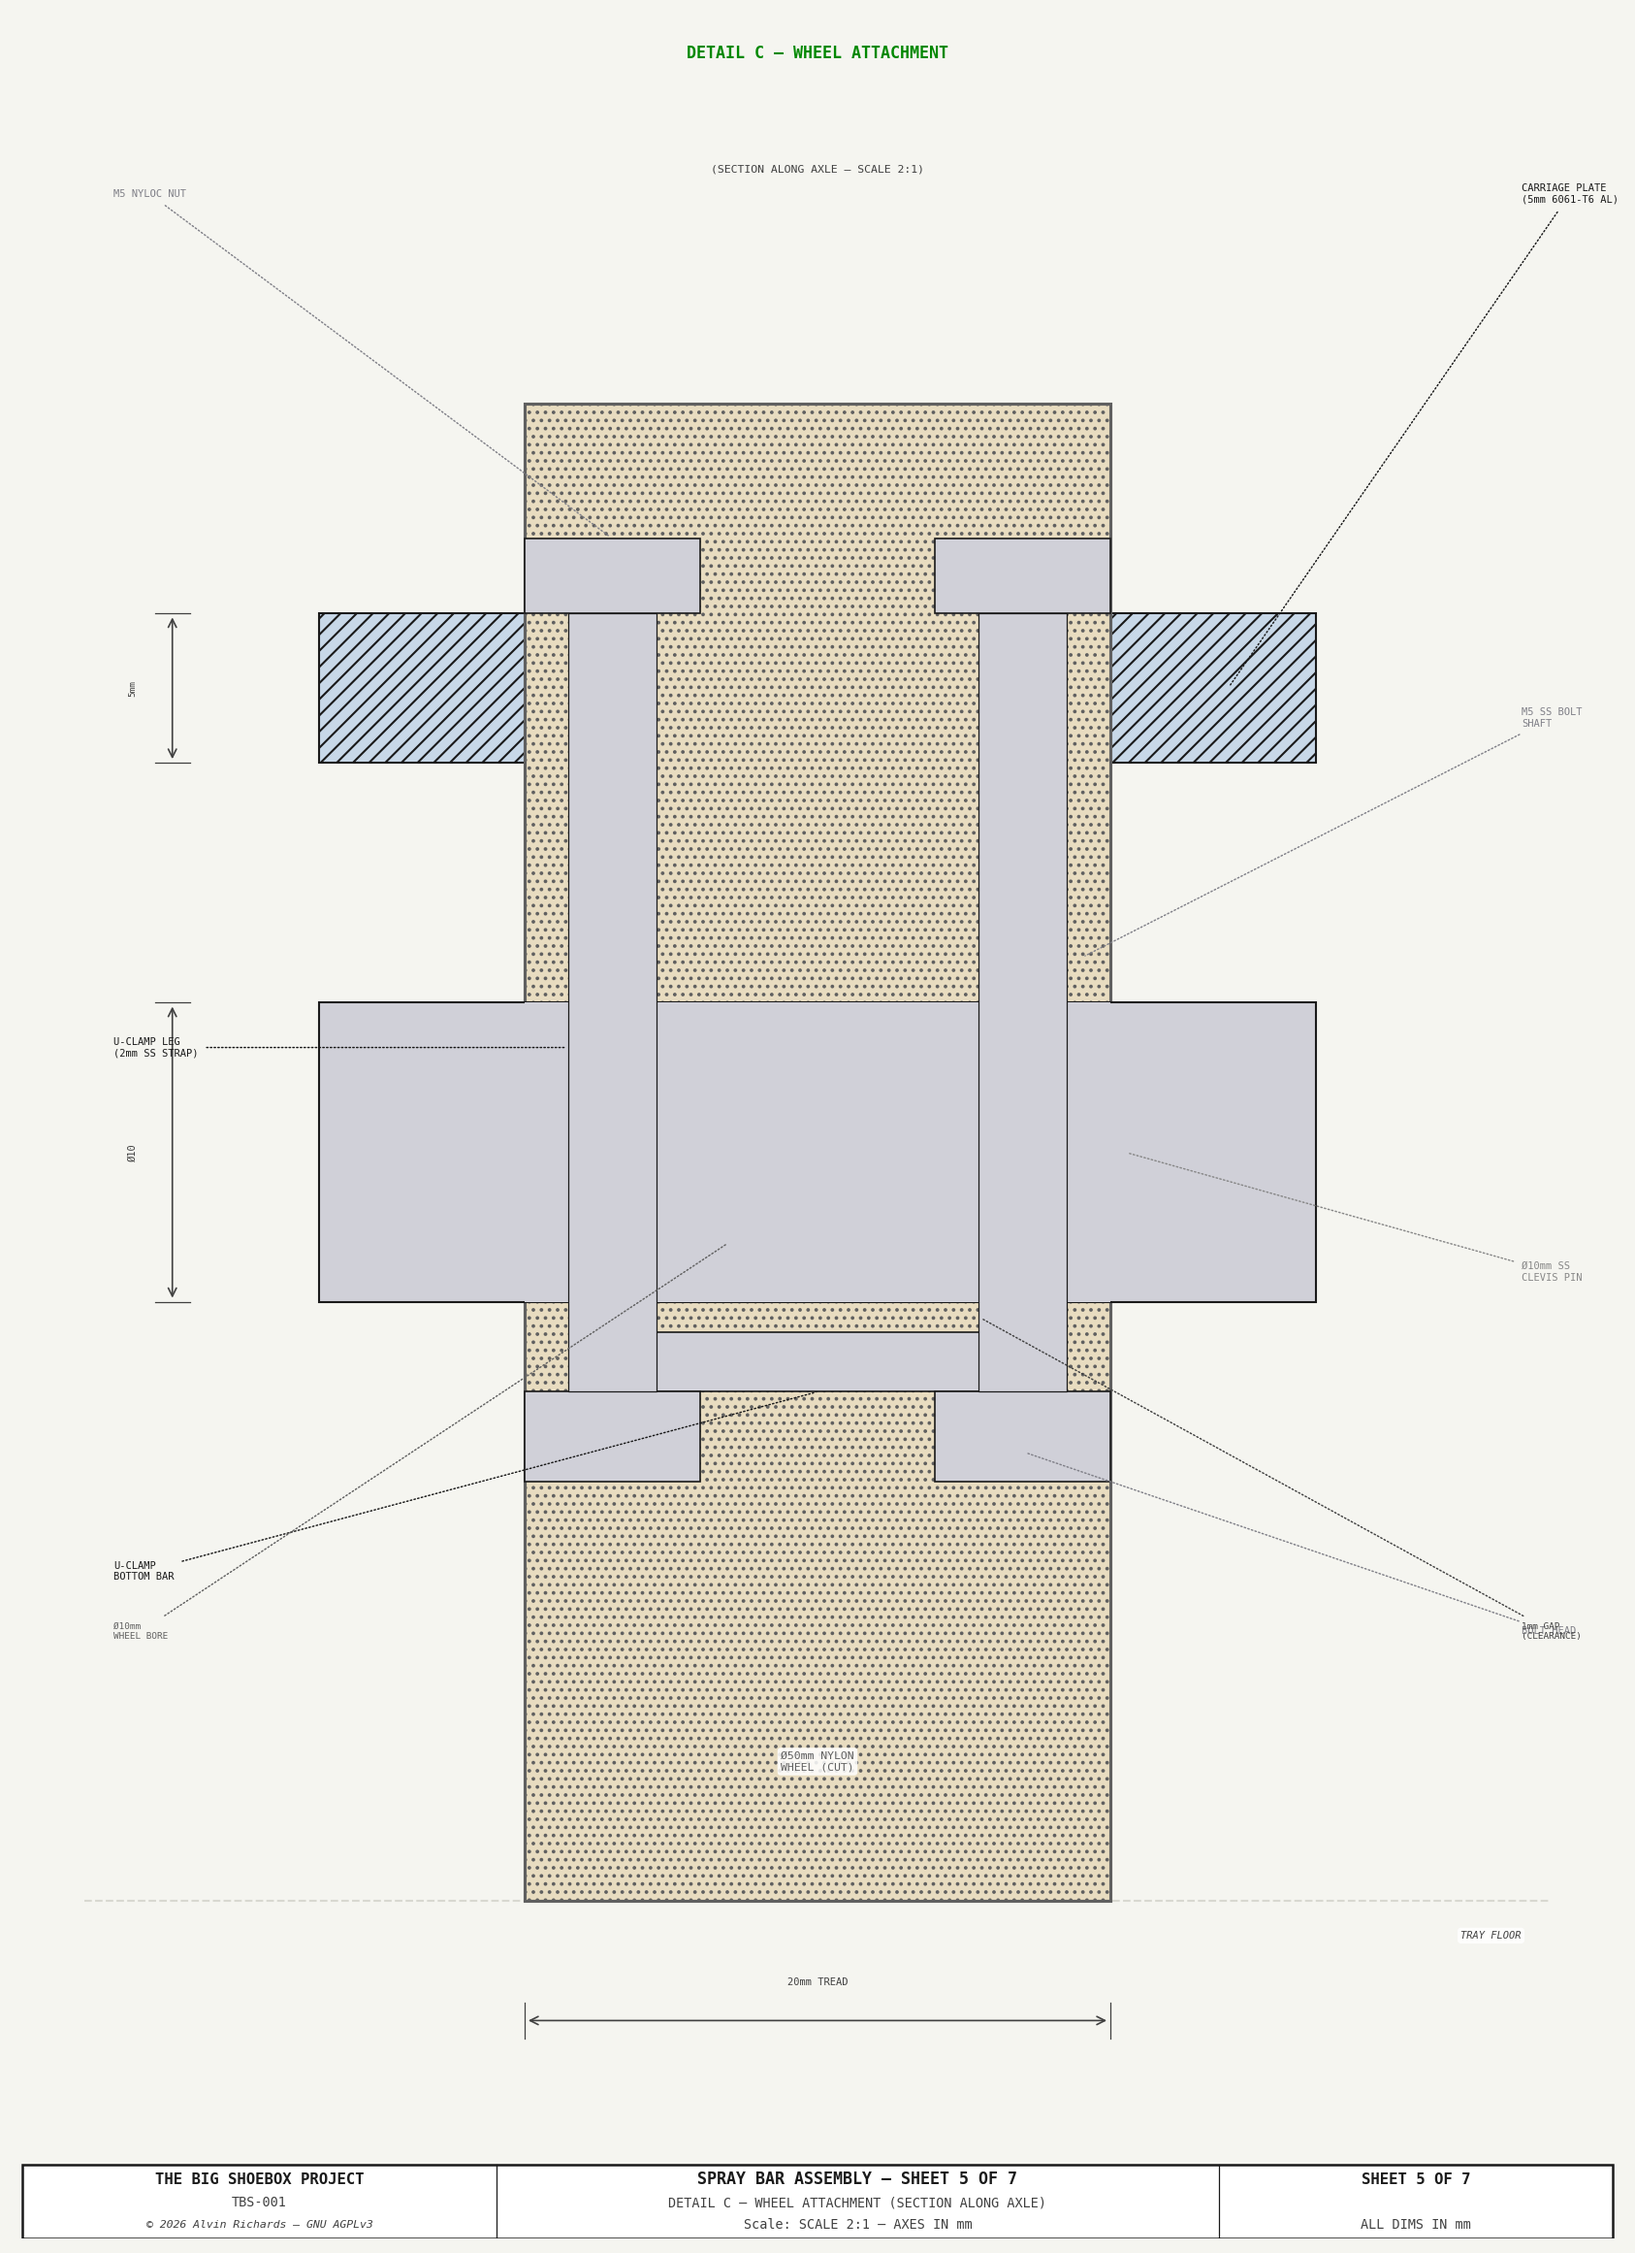
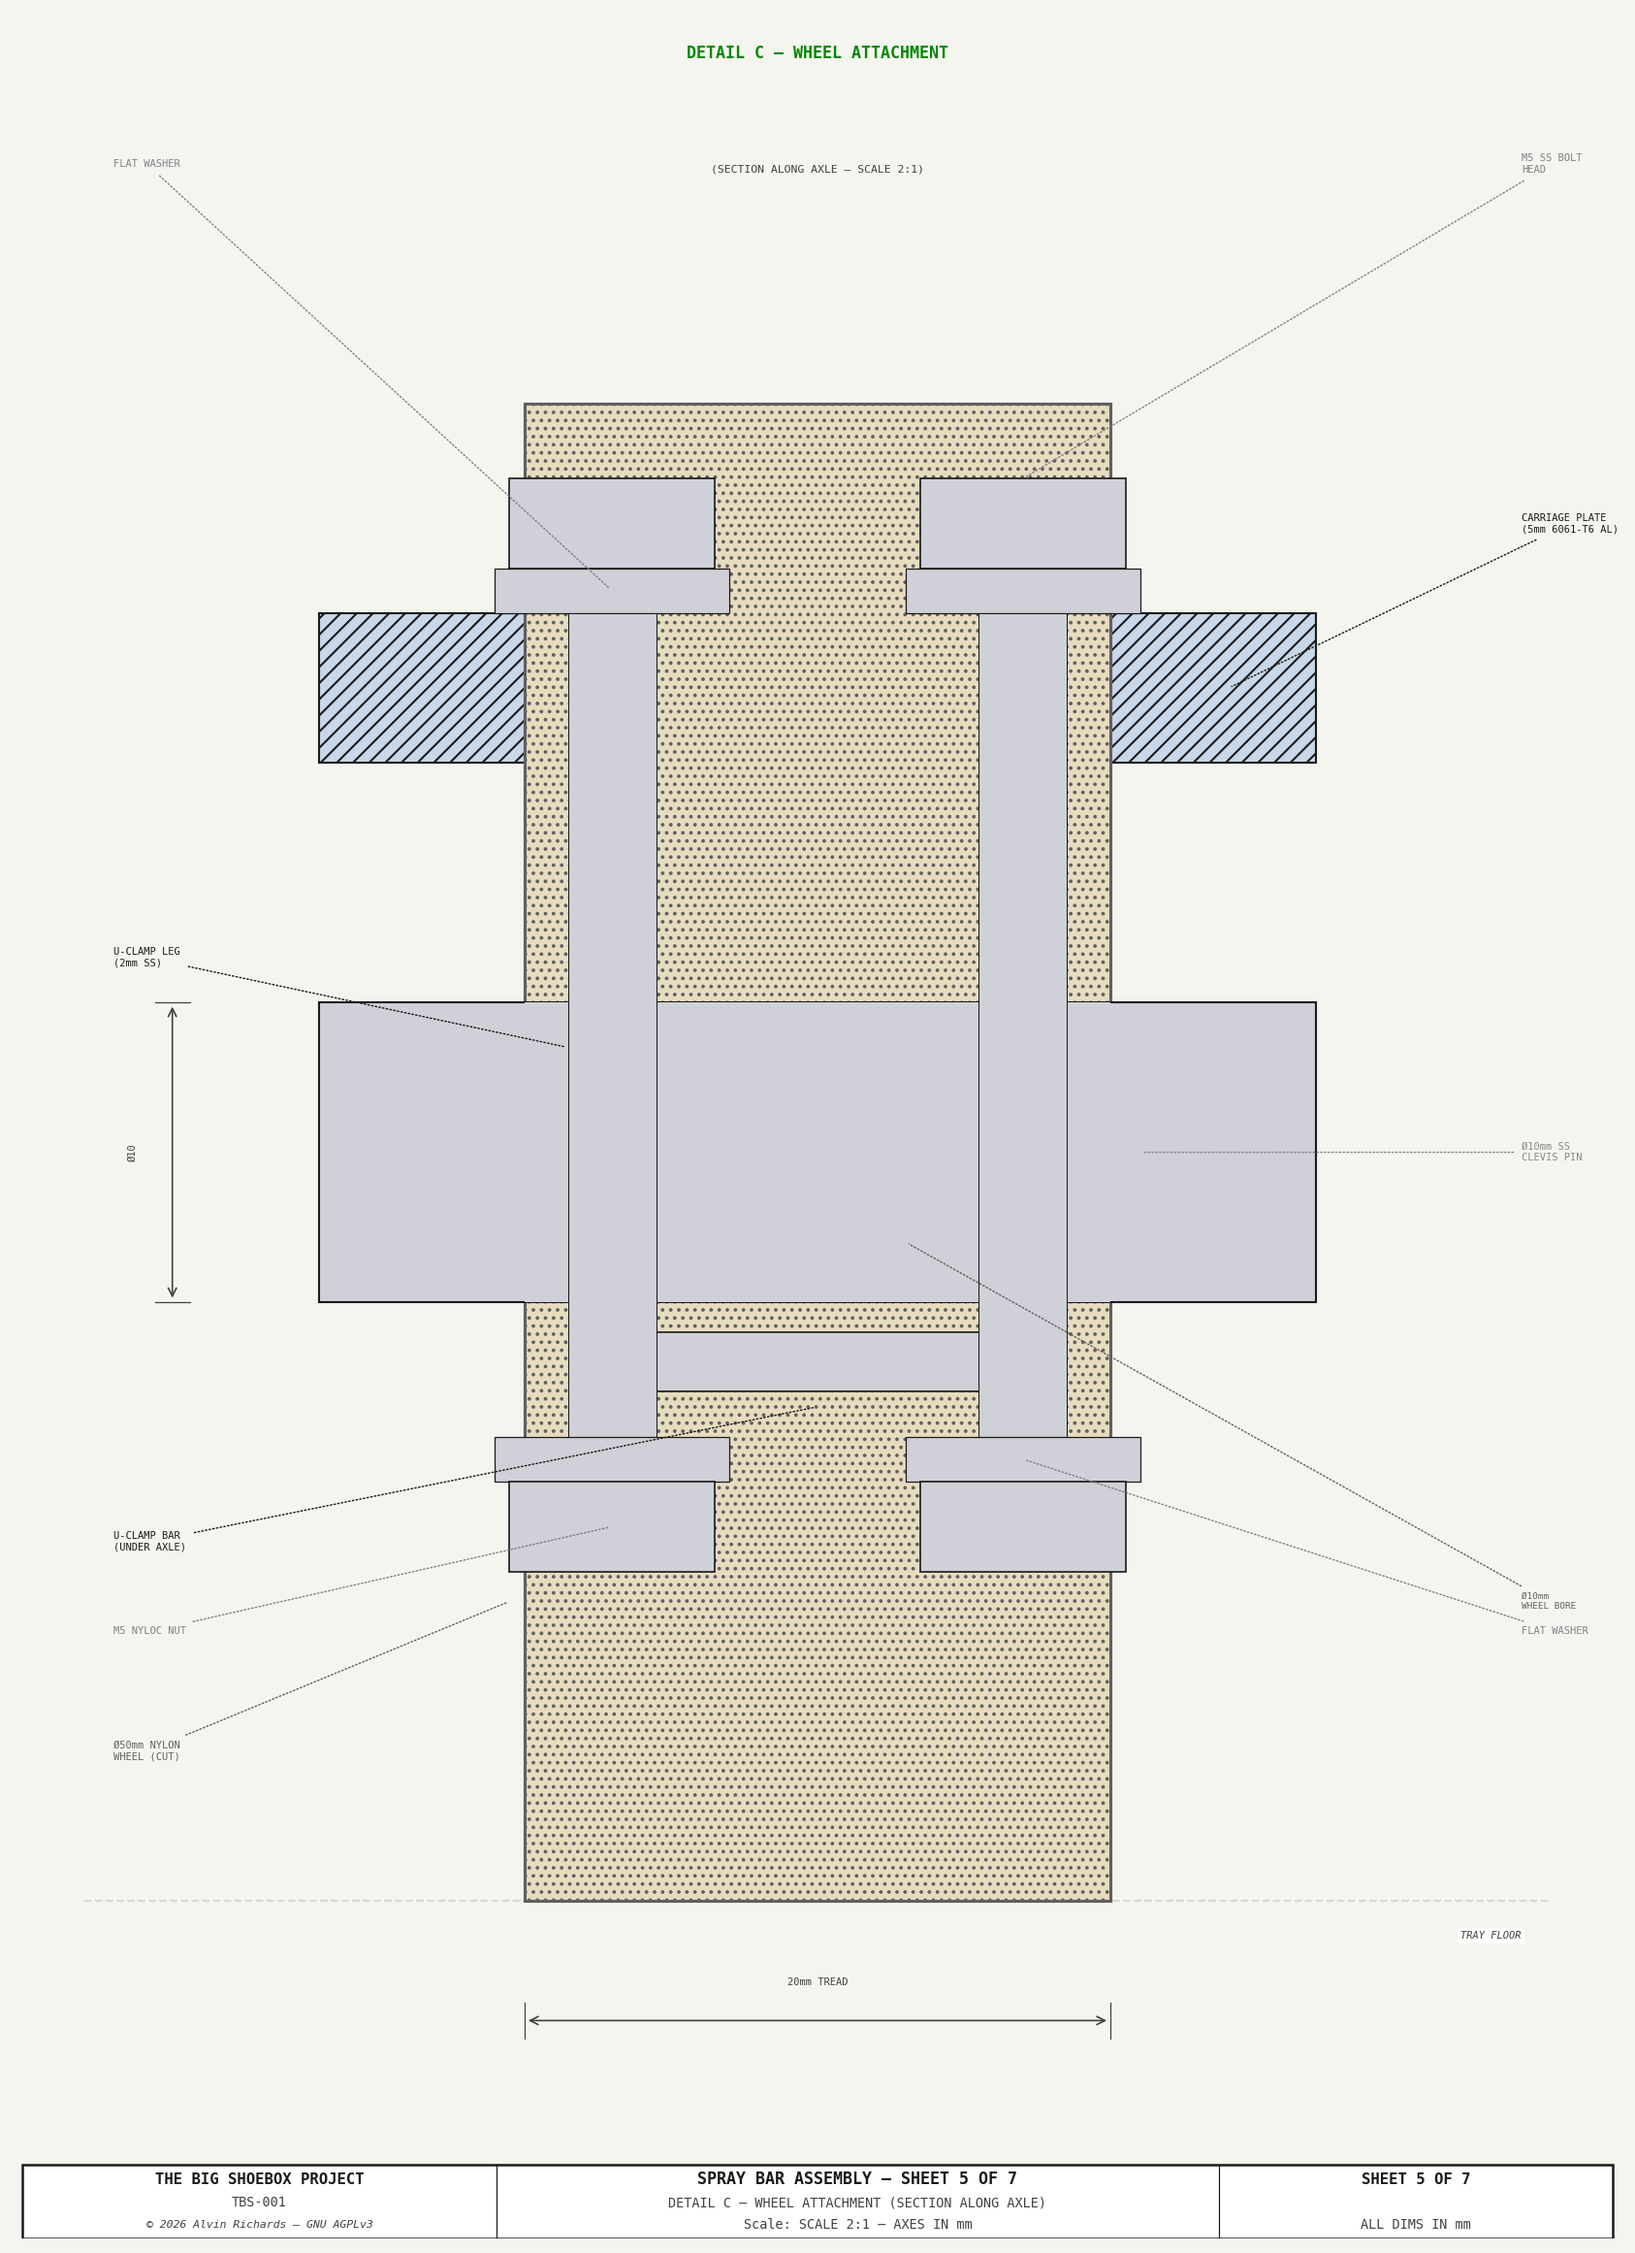
Sheet 5: flip bolt direction (head on top) and add washers
Assembly order now reads top-to-bottom: bolt head, washer, carriage
plate, axle, U-clamp, washer, nyloc nut. Matches expected fastener
stack. All components labeled with leader lines.

diff --git a/generate_spray_bar_diagram.py b/generate_spray_bar_diagram.py
@@ -1347,15 +1347,34 @@ def draw_sheet5():
         ax_w.add_patch(Rectangle((gap_x, auc_bar_bot), 1, plate_bot_y - auc_bar_bot,
                        fc=C_BG, ec="none", zorder=3.5))
 
-    # ── M5 through-bolts (through U-clamp legs + plate) ──────────────────
+    # ── M5 through-bolts (head on top, nut below U-clamp) ──────────────
     C_BOLT_FILL = "#D0D0D8"
+    washer_t = 1.5
+    bolt_head_h = 3
+    nut_h = 3
+    plate_top_y = plate_bot_y + plate_h
+
     for bolt_cx in [-(auc_inner + auc_t / 2), auc_inner + auc_t / 2]:
-        ax_w.add_patch(Rectangle((bolt_cx - 3, auc_bar_bot - 3), 6, 3,
+        # Bolt head (top)
+        ax_w.add_patch(Rectangle((bolt_cx - 3.5, plate_top_y + washer_t),
+                       7, bolt_head_h,
                        fc=C_BOLT_FILL, ec=C_FRAME, lw=0.8, zorder=7))
-        ax_w.add_patch(Rectangle((bolt_cx - 1.5, auc_bar_bot), 3,
-                       plate_bot_y + plate_h - auc_bar_bot,
+        # Washer under bolt head
+        ax_w.add_patch(Rectangle((bolt_cx - 4, plate_top_y),
+                       8, washer_t,
                        fc=C_BOLT_FILL, ec=C_FRAME, lw=0.6, zorder=7))
-        ax_w.add_patch(Rectangle((bolt_cx - 3, plate_bot_y + plate_h), 6, 2.5,
+        # Shaft (through plate + U-clamp leg + bottom bar)
+        shaft_bot = auc_bar_bot - washer_t
+        ax_w.add_patch(Rectangle((bolt_cx - 1.5, shaft_bot),
+                       3, plate_top_y - shaft_bot,
+                       fc=C_BOLT_FILL, ec=C_FRAME, lw=0.5, zorder=7))
+        # Washer above nut
+        ax_w.add_patch(Rectangle((bolt_cx - 4, shaft_bot - washer_t),
+                       8, washer_t,
+                       fc=C_BOLT_FILL, ec=C_FRAME, lw=0.6, zorder=7))
+        # Nut (bottom)
+        ax_w.add_patch(Rectangle((bolt_cx - 3.5, shaft_bot - washer_t - nut_h),
+                       7, nut_h,
                        fc=C_BOLT_FILL, ec=C_FRAME, lw=0.8, zorder=7))
 
     _bbox_w = dict(boxstyle="round,pad=0.3", fc="white", ec="none", alpha=0.85)
@@ -1367,59 +1386,61 @@ def draw_sheet5():
               ha="right", va="top", fontsize=5, color=C_DIM,
               style="italic", bbox=_bbox_w, **FONT, zorder=15)
 
-    # ── Labels ───────────────────────────────────────────────────────────
+    # ── Labels — in assembly order top to bottom ─────────────────────────
     bolt_r_cx = auc_inner + auc_t / 2
     bolt_l_cx = -(auc_inner + auc_t / 2)
-    nut_top = plate_bot_y + plate_h + 2.5
+    bolt_head_top = plate_top_y + washer_t + bolt_head_h
+    nut_bot = auc_bar_bot - washer_t - washer_t - nut_h
 
-    # 1. Carriage plate
-    leader(ax_w, 14, plate_bot_y + plate_h / 2, w_xr - 1, w_yt - 6,
+    # 1. Bolt head (top)
+    leader(ax_w, bolt_r_cx, bolt_head_top, w_xr - 1, w_yt - 5,
+           "M5 SS BOLT\nHEAD",
+           fs=5, color="#808088", font=FONT, zorder=20)
+
+    # 2. Washer (under bolt head)
+    leader(ax_w, bolt_l_cx, plate_top_y + washer_t / 2, w_xl + 1, w_yt - 5,
+           "FLAT WASHER",
+           fs=5, color="#808088", font=FONT, zorder=20)
+
+    # 3. Carriage plate
+    leader(ax_w, 14, plate_bot_y + plate_h / 2, w_xr - 1, plate_bot_y + 8,
            "CARRIAGE PLATE\n(5mm 6061-T6 AL)",
            fs=5, color=C_FRAME, font=FONT, zorder=20)
 
-    # 2. Nyloc nut (on top of plate)
-    leader(ax_w, bolt_l_cx, nut_top, w_xl + 1, w_yt - 6,
-           "M5 NYLOC NUT",
-           fs=5, color="#808088", font=FONT, zorder=20)
-
-    # 3. Bolt shaft (through plate + U-clamp leg)
-    leader(ax_w, bolt_r_cx + 2, plate_bot_y / 2, w_xr - 1, plate_bot_y / 2 + 8,
-           "M5 SS BOLT\nSHAFT",
-           fs=5, color="#808088", font=FONT, zorder=20)
-
-    # 4. Bolt head (below U-clamp bottom bar)
-    leader(ax_w, bolt_r_cx, auc_bar_bot - 2, w_xr - 1, auc_bar_bot - 8,
-           "BOLT HEAD",
-           fs=5, color="#808088", font=FONT, zorder=20)
-
-    # 5. U-clamp leg
-    leader(ax_w, -auc_outer - 0.5, (auc_bar_top + plate_bot_y) / 2,
-           w_xl + 1, (auc_bar_top + plate_bot_y) / 2,
-           "U-CLAMP LEG\n(2mm SS STRAP)",
-           fs=5, color=C_FRAME, font=FONT, zorder=20)
-
-    # 6. U-clamp bottom bar
-    leader(ax_w, 0, auc_bar_bot, w_xl + 1, auc_bar_bot - 6,
-           "U-CLAMP\nBOTTOM BAR",
-           fs=5, color=C_FRAME, font=FONT, zorder=20)
-
-    # 7. Axle pin
-    leader(ax_w, 10.5, 0, w_xr - 1, -4,
+    # 4. Axle pin
+    leader(ax_w, 11, 0, w_xr - 1, 0,
            "Ø10mm SS\nCLEVIS PIN",
            fs=5, color="#888888", font=FONT, zorder=20)
 
-    # 8. Clearance gap (between U-clamp inner surface and axle)
-    leader(ax_w, auc_inner - 0.5, -axle_r - 0.5, w_xr - 1, -16,
-           "1mm GAP\n(CLEARANCE)",
-           fs=4.5, color=C_DIM, font=FONT, zorder=20)
+    # 5. U-clamp leg
+    leader(ax_w, -auc_outer - 0.5, (auc_bar_top + plate_bot_y) / 2,
+           w_xl + 1, (auc_bar_top + plate_bot_y) / 2 + 3,
+           "U-CLAMP LEG\n(2mm SS)",
+           fs=5, color=C_FRAME, font=FONT, zorder=20)
 
-    # 9. Wheel body
-    ax_w.text(0, -20, "Ø50mm NYLON\nWHEEL (CUT)",
-              ha="center", va="top", fontsize=5.5, color=C_WHEEL,
-              bbox=_bbox_w, **FONT, zorder=20)
+    # 6. U-clamp bottom bar
+    leader(ax_w, 0, auc_bar_bot - 0.5, w_xl + 1, auc_bar_bot - 5,
+           "U-CLAMP BAR\n(UNDER AXLE)",
+           fs=5, color=C_FRAME, font=FONT, zorder=20)
+
+    # 7. Washer (above nut)
+    leader(ax_w, bolt_r_cx, auc_bar_bot - washer_t - washer_t / 2,
+           w_xr - 1, auc_bar_bot - 8,
+           "FLAT WASHER",
+           fs=5, color="#808088", font=FONT, zorder=20)
+
+    # 8. Nut (bottom)
+    leader(ax_w, bolt_l_cx, nut_bot + nut_h / 2, w_xl + 1, nut_bot - 2,
+           "M5 NYLOC NUT",
+           fs=5, color="#808088", font=FONT, zorder=20)
+
+    # 9. Wheel body (flanking both sides)
+    leader(ax_w, -10.5, -15, w_xl + 1, -20,
+           "Ø50mm NYLON\nWHEEL (CUT)",
+           fs=5, color=C_WHEEL, font=FONT, zorder=20)
 
     # 10. Wheel bore
-    leader(ax_w, -3, -3, w_xl + 1, -16,
+    leader(ax_w, 3, -3, w_xr - 1, -15,
            "Ø10mm\nWHEEL BORE",
            fs=4.5, color=C_WHEEL, font=FONT, zorder=20)
 
@@ -1429,9 +1450,6 @@ def draw_sheet5():
 
     draw_dim_v(ax_w, w_xl + 3, -axle_r, axle_r,
                "Ø10", offset=2, fs=5, font=FONT)
-
-    draw_dim_v(ax_w, w_xl + 3, plate_bot_y, plate_bot_y + plate_h,
-               "5mm", offset=2, fs=4.5, font=FONT)
 
     # ── Title block ──────────────────────────────────────────────────────
     ax_tb = fig.add_axes([0.04, 0.005, 0.92, 0.045])
